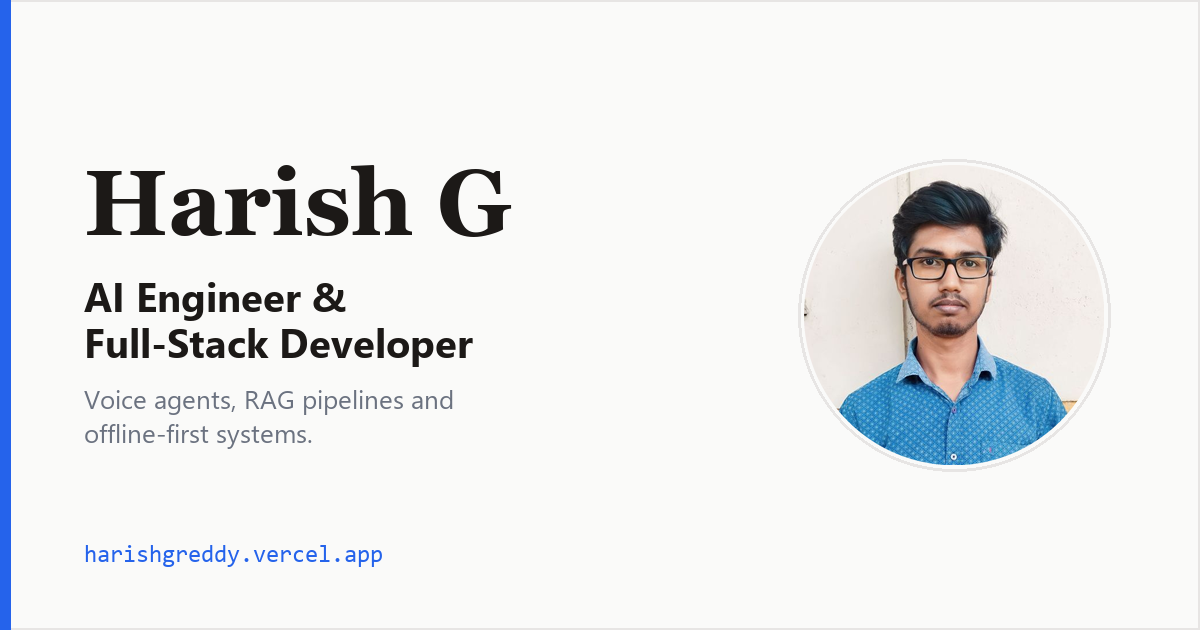
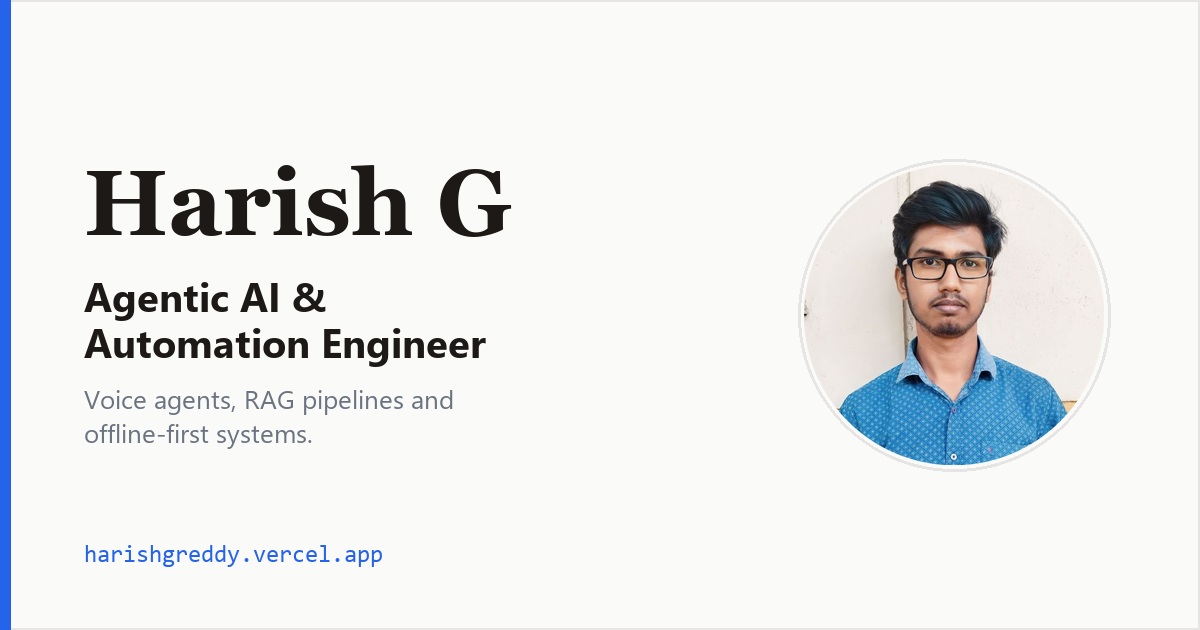
feat(brand): retitle to Agentic AI & Automation Engineer
The LinkedIn headline, the resume and the site now target agentic AI roles,
and a recruiter who opens more than one of them must see the same title. The
share card bakes the title in as pixels, so it is regenerated rather than left
advertising the old role.

Claude-Session: https://claude.ai/code/session_01EE4qhYncfpuWbqWsmN4k9f

Changed region(s): [[0.0617, 0.4524, 0.4008, 0.6032]]

diff --git a/index.html b/index.html
@@ -5,10 +5,10 @@
     <link rel="icon" type="image/svg+xml" href="/favicon.svg" />
     <meta name="viewport" content="width=device-width, initial-scale=1.0" />
 
-    <title>Harish G | Full Stack &amp; AI Engineer</title>
+    <title>Harish G | Agentic AI &amp; Automation Engineer</title>
     <meta
       name="description"
-      content="Harish G, Full Stack &amp; AI Engineer. Building scalable backend systems and AI-driven applications with Java, Python and JavaScript, LLMs, RAG and agent workflows."
+      content="Harish G, Agentic AI &amp; Automation Engineer. Building scalable backend systems and AI-driven applications with Java, Python and JavaScript, LLMs, RAG and agent workflows."
     />
     <meta name="author" content="Harish G" />
     <meta name="robots" content="index, follow" />
@@ -18,10 +18,10 @@
     <!-- Open Graph -->
     <meta property="og:type" content="profile" />
     <meta property="og:site_name" content="Harish G | Portfolio" />
-    <meta property="og:title" content="Harish G | Full Stack &amp; AI Engineer" />
+    <meta property="og:title" content="Harish G | Agentic AI &amp; Automation Engineer" />
     <meta
       property="og:description"
-      content="Full Stack & AI Engineer specializing in Spring Boot, FastAPI, React and LLM-powered applications."
+      content="Agentic AI & Automation Engineer building LLM guardrails, tool-calling agents and RAG with FastAPI, Spring Boot and React."
     />
     <meta property="og:url" content="https://harishgreddy.vercel.app/" />
     <meta property="og:image" content="https://harishgreddy.vercel.app/og-image.png" />
@@ -29,10 +29,10 @@
 
     <!-- Twitter -->
     <meta name="twitter:card" content="summary_large_image" />
-    <meta name="twitter:title" content="Harish G | Full Stack &amp; AI Engineer" />
+    <meta name="twitter:title" content="Harish G | Agentic AI &amp; Automation Engineer" />
     <meta
       name="twitter:description"
-      content="Full Stack & AI Engineer specializing in Spring Boot, FastAPI, React and LLM-powered applications."
+      content="Agentic AI & Automation Engineer building LLM guardrails, tool-calling agents and RAG with FastAPI, Spring Boot and React."
     />
     <meta name="twitter:image" content="https://harishgreddy.vercel.app/og-image.png" />
 

diff --git a/src/data/portfolio.js b/src/data/portfolio.js
@@ -11,7 +11,7 @@ export const site = {
 
 export const profile = {
   name: 'Harish G',
-  title: 'Full Stack & AI Engineer',
+  title: 'Agentic AI & Automation Engineer',
   tagline: 'Multi-stack engineer (Java · Python · JavaScript) building scalable backends and AI-driven applications.',
   location: 'Bengaluru, India',
   email: 'harishgreddy.work@gmail.com',

diff --git a/scripts/make-og-image.py b/scripts/make-og-image.py
@@ -7,6 +7,7 @@ What: Composites the share card from the site's own theme tokens and profile pho
 Result: A 1200x630 PNG matching the Editorial Light palette, written to public/.
 Changelog:
   2026-08-21 - Created.
+  2026-09-12 - Role lines retitled to Agentic AI & Automation Engineer to match profile.title.
 
 Fonts fall back the same way the site does: Fraunces -> Georgia, Hanken Grotesk ->
 Segoe UI, JetBrains Mono -> Consolas. The fallbacks are what actually render here,
@@ -88,9 +89,9 @@ y = 150
 d.text((X, y), 'Harish G', font=f_name, fill=INK)
 y += 118
 
-d.text((X, y), 'AI Engineer &', font=f_role, fill=INK)
+d.text((X, y), 'Agentic AI &', font=f_role, fill=INK)
 y += 46
-d.text((X, y), 'Full-Stack Developer', font=f_role, fill=INK)
+d.text((X, y), 'Automation Engineer', font=f_role, fill=INK)
 y += 66
 
 d.text((X, y), 'Voice agents, RAG pipelines and', font=f_body, fill=MUTED)

diff --git a/public/resume.tex b/public/resume.tex
@@ -44,7 +44,7 @@
 % Header
 % ----------------------------------------------------------------------
 {\LARGE\bfseries Harish G}\\[1pt]
-{\normalsize\bfseries AI Engineer \& Full-Stack Developer \textbar{} Python, JavaScript, Java, Kotlin}\\[2pt]
+{\normalsize\bfseries Agentic AI \& Automation Engineer \textbar{} LLM Guardrails, Tool Calling, RAG \textbar{} Python, FastAPI, Java}\\[2pt]
 Bengaluru, India \quad\textbar\quad +91 7892855850 \quad\textbar\quad
 \href{mailto:harishgreddy.work@gmail.com}{harishgreddy.work@gmail.com}\\[1pt]
 \href{https://www.linkedin.com/in/harishgreddy/}{LinkedIn} \quad\textbar\quad \href{https://github.com/harish00506/}{GitHub}
